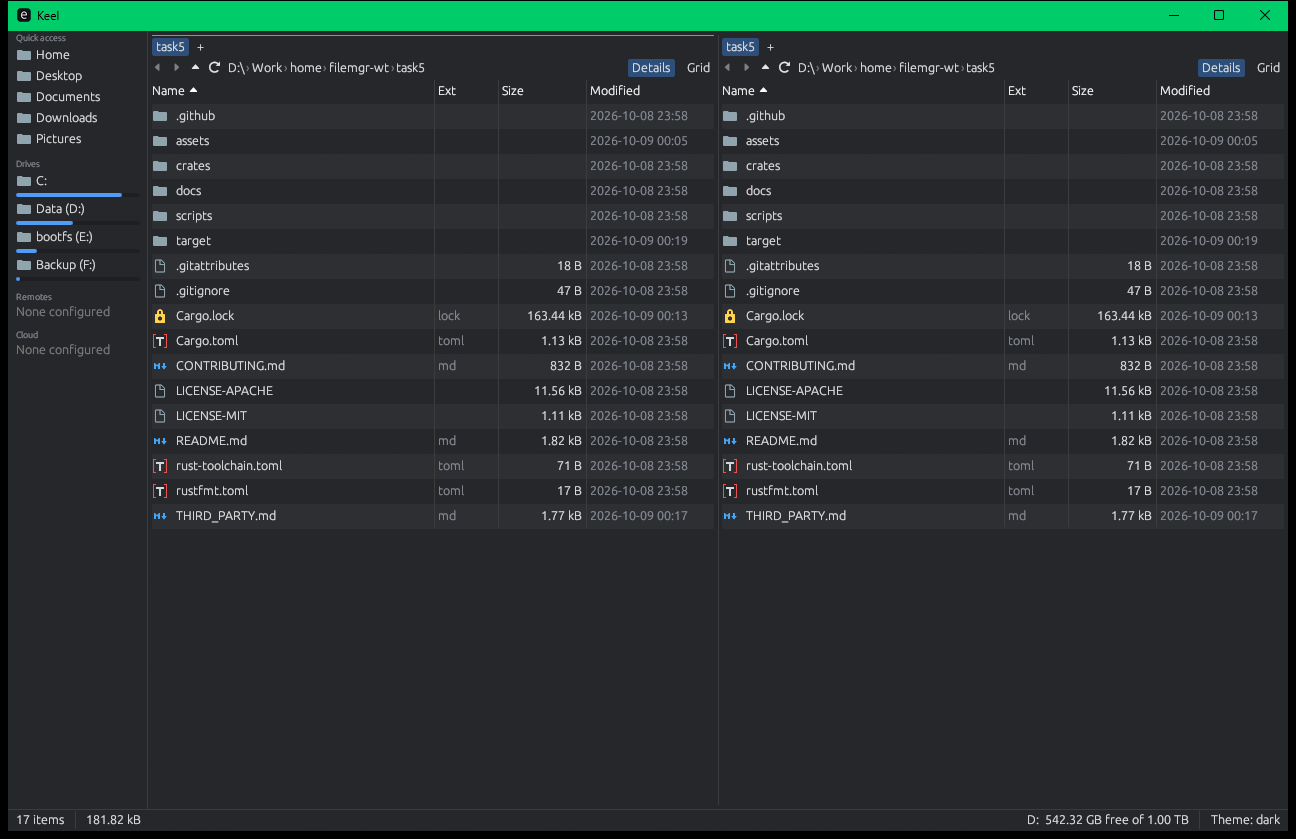
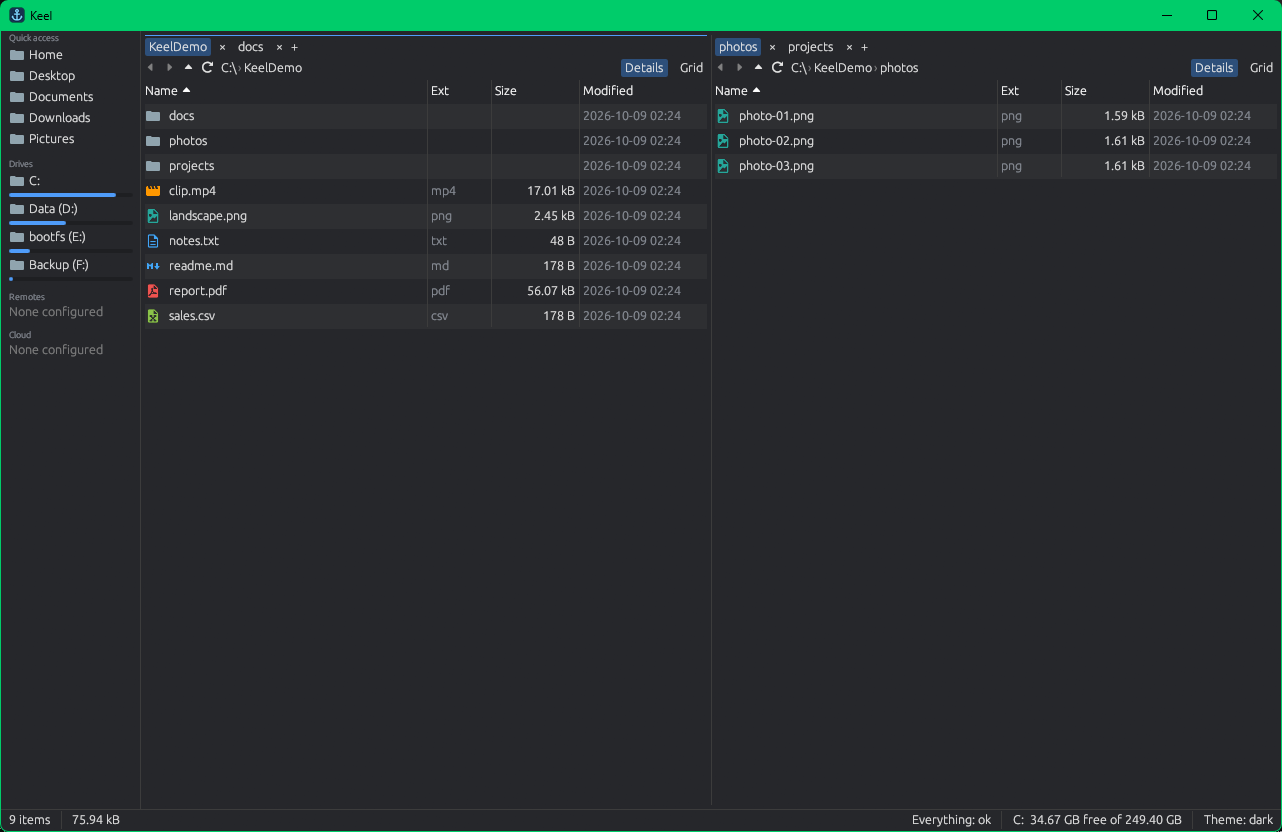
docs: screenshots, README, CHANGELOG 0.1.0
- Screenshots retaken from the release build (static CRT) on a neutral demo
  folder, capturing only the Keel window: dark theme, 1280x800 client area,
  new title-bar icon.
- README: F3 toggles the preview (no Ctrl+Shift+V), Everything and ffmpeg
  are optional, pdfium ships in the release archives or comes from
  scripts/fetch-deps, no VC++ redistributable needed, glibc 2.35 baseline,
  KEEL_CONFIG_DIR covers session and crash.log (not eframe's app.ron),
  .bad files for unreadable config/session.
- CHANGELOG: 0.1.0 dated 2026-10-09; static CRT and Ubuntu 22.04 baseline.

diff --git a/README.md b/README.md
@@ -9,25 +9,25 @@ Keel is an open-source, cross-platform file manager written in Rust (egui + wgpu
 ## What works (v0.1.0)
 
 - **Dual pane and tabs**: two panes (Ctrl+Shift+D for one), any number of tabs per pane (drag to reorder), back/forward history, breadcrumb or editable path (Ctrl+L), details and grid views with thumbnails, sidebar with home folders and drives.
-- **Search**: Ctrl+F opens a search tab. Windows uses [Everything](https://www.voidtools.com/) (must be running), macOS uses Spotlight (`mdfind`), Linux uses `plocate`/`locate` when installed, otherwise a folder walk. Ctrl+Enter opens a result's folder with the file selected.
+- **Search**: Ctrl+F opens a search tab. Windows uses [Everything](https://www.voidtools.com/) when it is running (optional: without it Keel works, only the search tab is unavailable and Ctrl+P walks your home folder), macOS uses Spotlight (`mdfind`), Linux uses `plocate`/`locate` when installed, otherwise a folder walk. Ctrl+Enter opens a result's folder with the file selected.
 - **Fuzzy folder jump**: Ctrl+P matches against every folder Everything knows (or a walk of your home folder).
 - **Command palette**: Ctrl+Shift+P lists every action by name with its shortcut.
 - **Filter by typing**: start typing in a list to filter it; Esc clears.
-- **Previews** (F3): code with syntax highlighting, text, Markdown, images (PNG, JPEG, GIF, WebP, BMP, ICO, SVG), PDF pages, CSV/TSV and spreadsheets (xlsx, xls, xlsb, ods), Word documents (docx), video thumbnails (needs `ffmpeg` on `PATH`), hex for anything else.
+- **Previews**: F3 shows or hides the preview panel (there is no Ctrl+Shift+V shortcut). Code with syntax highlighting, text, Markdown, images (PNG, JPEG, GIF, WebP, BMP, ICO, SVG), PDF pages (needs the pdfium library next to the binary: included in the release archives, or run `scripts/fetch-deps`), CSV/TSV and spreadsheets (xlsx, xls, xlsb, ods), Word documents (docx), video thumbnails (optional: needs `ffmpeg` on `PATH`), hex for anything else.
 - **File operations**: copy, move, rename (F2), new folder/file, and delete to the OS trash (never a permanent delete), with progress, cancel, and skip/overwrite/rename prompts on name clashes. Drag and drop between panes and from other apps.
 - **System clipboard**: Ctrl+C / Ctrl+X / Ctrl+V exchange files with Explorer (including cut) and Finder / file managers on Linux (copy only for now).
 - **Open, open with, reveal** in the system file manager, open a terminal in the current folder.
 - **Themes**: dark and light (a TOML file in `<config>/themes/dark.toml` or `light.toml` overrides the built-in colours). One built-in file icon theme.
-- **Settings** (Ctrl+,): theme, hidden files, dual pane, preview panel, maximum preview size. Open tabs are restored on the next start; a folder that has gone away falls back to your home folder.
-- **Crash safety**: a bug inside the UI is written to `crash.log` and Keel keeps running.
+- **Settings** (Ctrl+,): theme, hidden files, dual pane, preview panel, maximum preview size. Open tabs are restored on the next start; a local folder that was deleted falls back to your home folder, while a tab on an unreachable network share stays open and shows the error. A `config.toml` or `session.json` that cannot be read is kept as `config.toml.bad` / `session.json.bad`.
+- **Crash safety**: a bug inside the UI is written to `crash.log`, the panes are reset and Keel keeps running.
 
-Settings live in `%APPDATA%\Keel` (Windows), `~/Library/Application Support/Keel` (macOS) or `~/.config/keel` (Linux); session and `crash.log` in `%LOCALAPPDATA%\Keel`, `~/Library/Caches/Keel` or `~/.cache/keel`.
+Settings live in `%APPDATA%\Keel` (Windows), `~/Library/Application Support/Keel` (macOS) or `~/.config/keel` (Linux); session and `crash.log` in `%LOCALAPPDATA%\Keel`, `~/Library/Caches/Keel` or `~/.cache/keel`. Set `KEEL_CONFIG_DIR` to keep settings, session and `crash.log` in one folder instead (the window size and position that eframe saves in `app.ron` stay in eframe's own folder).
 
 ## Install
 
 Download the archive for your system from [Releases](https://github.com/Runitupshawty/keel/releases). The builds are not signed yet.
 
-**Windows** (`keel-<version>-win64.zip`): extract anywhere and run `keel.exe`; keep the DLLs next to it. SmartScreen may warn about an unknown publisher (More info, Run anyway). Install and start Everything for search.
+**Windows** (`keel-<version>-win64.zip`): extract anywhere and run `keel.exe`; keep the DLLs next to it. No Visual C++ redistributable is needed (the runtime is linked statically). SmartScreen may warn about an unknown publisher (More info, Run anyway). Optional: install and start Everything for search.
 
 **macOS** (`keel-<version>-macos-arm64.tar.gz` for Apple silicon, `-macos-x64` for Intel): extract, then clear the download quarantine and run it:
 
@@ -37,7 +37,7 @@ xattr -dr com.apple.quarantine .
 ./keel
 ```
 
-**Linux** (`keel-<version>-linux-x64.tar.gz`, x86-64, X11 or Wayland):
+**Linux** (`keel-<version>-linux-x64.tar.gz`, x86-64, X11 or Wayland; glibc 2.35 or newer, e.g. Ubuntu 22.04, Debian 12):
 
 ```sh
 tar xzf keel-*-linux-x64.tar.gz
@@ -48,7 +48,7 @@ cp ~/.local/opt/keel/keel.desktop ~/.local/share/applications/
 cp ~/.local/opt/keel/keel.png ~/.local/share/icons/hicolor/256x256/apps/
 ```
 
-Optional everywhere: `ffmpeg` on `PATH` for video thumbnails.
+Optional everywhere: `ffmpeg` on `PATH` for video thumbnails. The release archives already contain pdfium for PDF previews.
 
 ## Build from source
 

diff --git a/CHANGELOG.md b/CHANGELOG.md
@@ -2,9 +2,9 @@
 
 All notable changes to Keel are listed here. The format follows [Keep a Changelog](https://keepachangelog.com/en/1.1.0/); versions follow [Semantic Versioning](https://semver.org/).
 
-## [0.1.0] - unreleased
+## [0.1.0] - 2026-10-09
 
-First release: the Phase 1 core on Windows, macOS and Linux.
+First release: the Phase 1 core on Windows, macOS and Linux. The Windows build links the C runtime statically (no Visual C++ redistributable needed); the Linux build targets glibc 2.35 (Ubuntu 22.04, Debian 12 and newer).
 
 ### Added
 
@@ -12,13 +12,13 @@ First release: the Phase 1 core on Windows, macOS and Linux.
 - Search tab (Ctrl+F): Everything on Windows, Spotlight on macOS, `plocate`/`locate` or a folder walk on Linux; "open location" with the file selected.
 - Fuzzy folder jump (Ctrl+P) and command palette (Ctrl+Shift+P).
 - Filter by typing in any list.
-- Preview panel (F3): code and text with syntax highlighting, Markdown, images including SVG, PDF pages, CSV/TSV and spreadsheets, docx, video thumbnails via ffmpeg, hex fallback.
+- Preview panel (F3): code and text with syntax highlighting, Markdown, images including SVG, PDF pages (pdfium, bundled in the release archives), CSV/TSV and spreadsheets, docx, video thumbnails via ffmpeg (optional), hex fallback. A missing pdfium or ffmpeg is named in the panel.
 - Copy, move, rename, new folder/file, delete to the OS trash; progress, cancel, conflict prompts (skip / overwrite / rename); drag and drop between panes and from other apps.
 - File clipboard shared with Explorer (copy and cut) and with Finder / Linux file managers (copy).
 - Open, open with, reveal in the system file manager, open a terminal here.
 - Dark and light themes; one file icon theme.
-- Settings window (Ctrl+,) saved to `<config>/profiles/default/config.toml`; open tabs restored from `<cache>/session.json`, with a fallback to the home folder when a saved folder is gone.
-- Crash log (`<cache>/crash.log`) and a panic guard: a bug inside a frame closes the failing tab and shows a dialog instead of killing the app.
+- Settings window (Ctrl+,) saved to `<config>/profiles/default/config.toml`; open tabs restored from `<cache>/session.json` without blocking startup. A deleted local folder falls back to the home folder; a tab on an unreachable share stays. A file that cannot be read is kept as `.bad` and reported. `KEEL_CONFIG_DIR` moves settings, session and crash log to one folder.
+- Crash log (`<cache>/crash.log`, capped at 1 MiB) and a panic guard: a bug inside a frame resets the panes and shows a dialog instead of killing the app.
 - App icon, Windows manifest (long paths, per-monitor DPI v2), Linux `.desktop` file; release archives for win64, macOS arm64/x64 and Linux x64 with the pdfium (and Everything) libraries and their license notices.
 
 ### Known gaps
